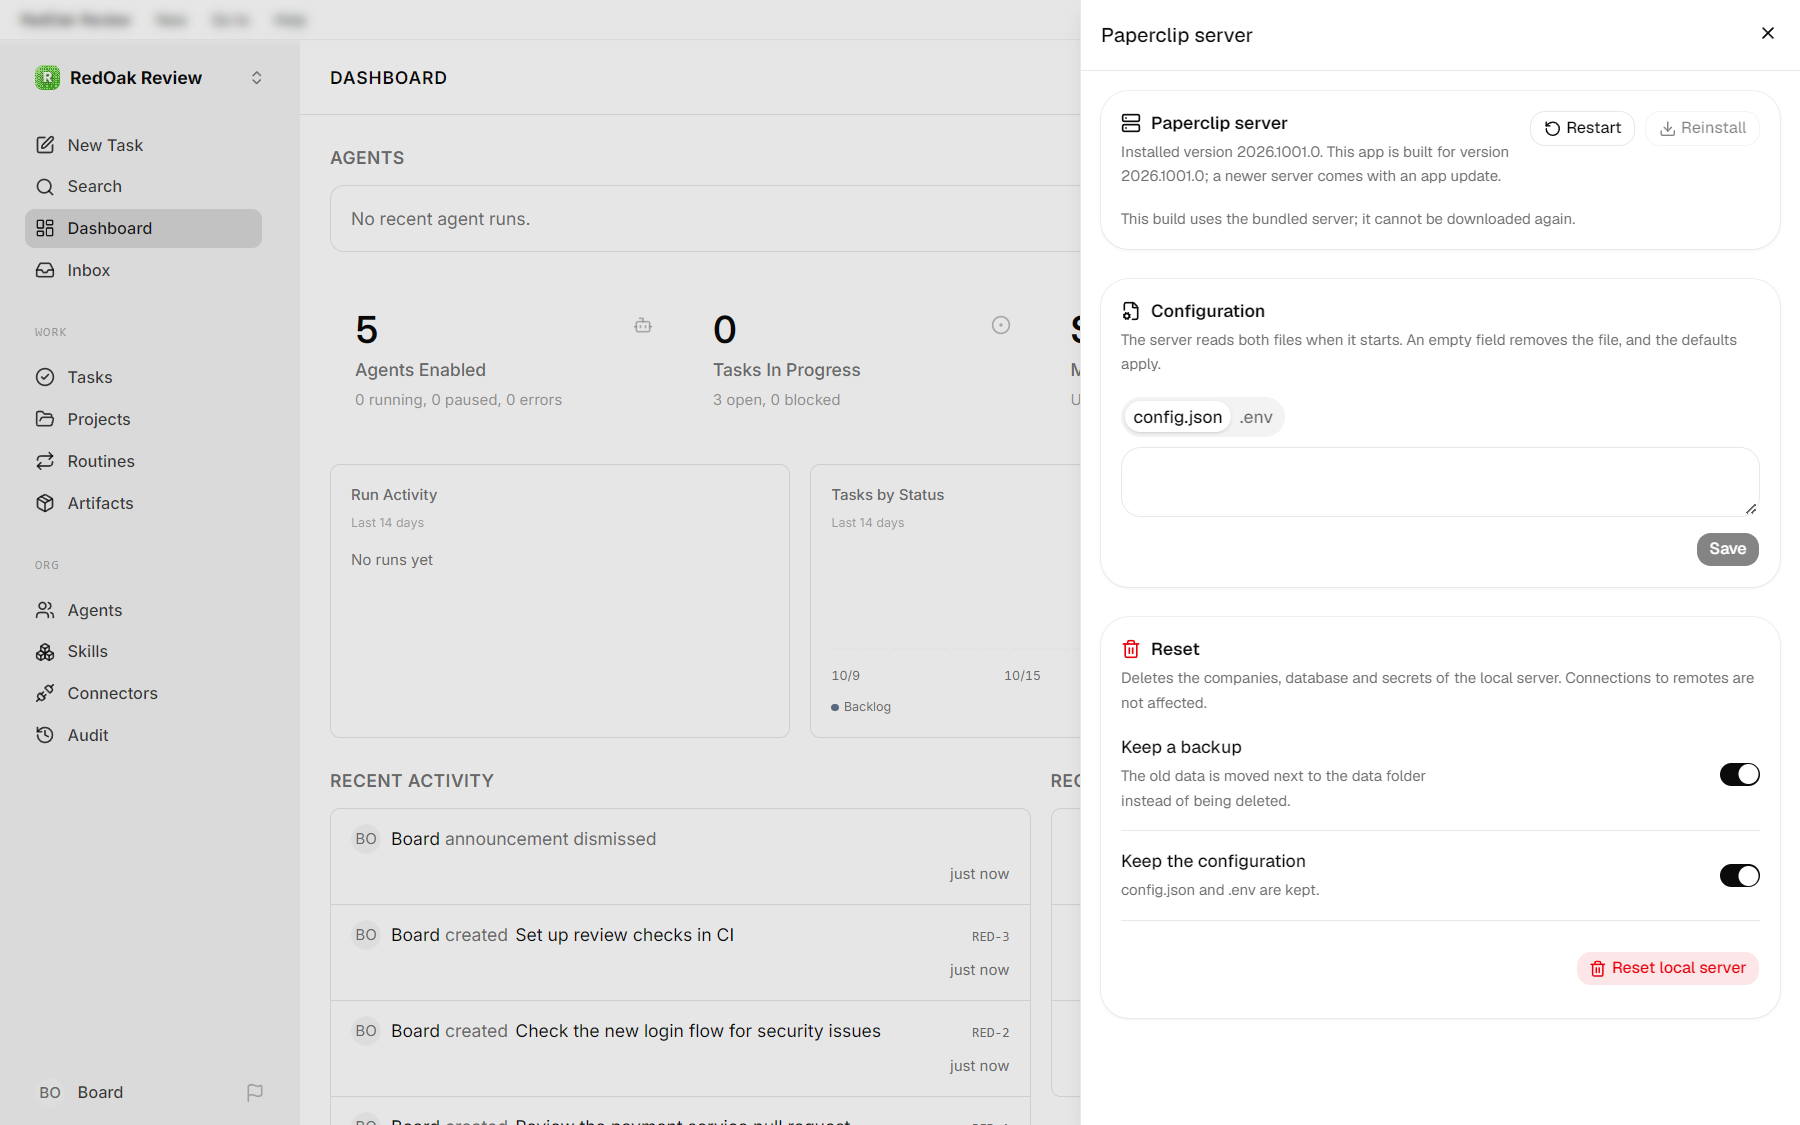
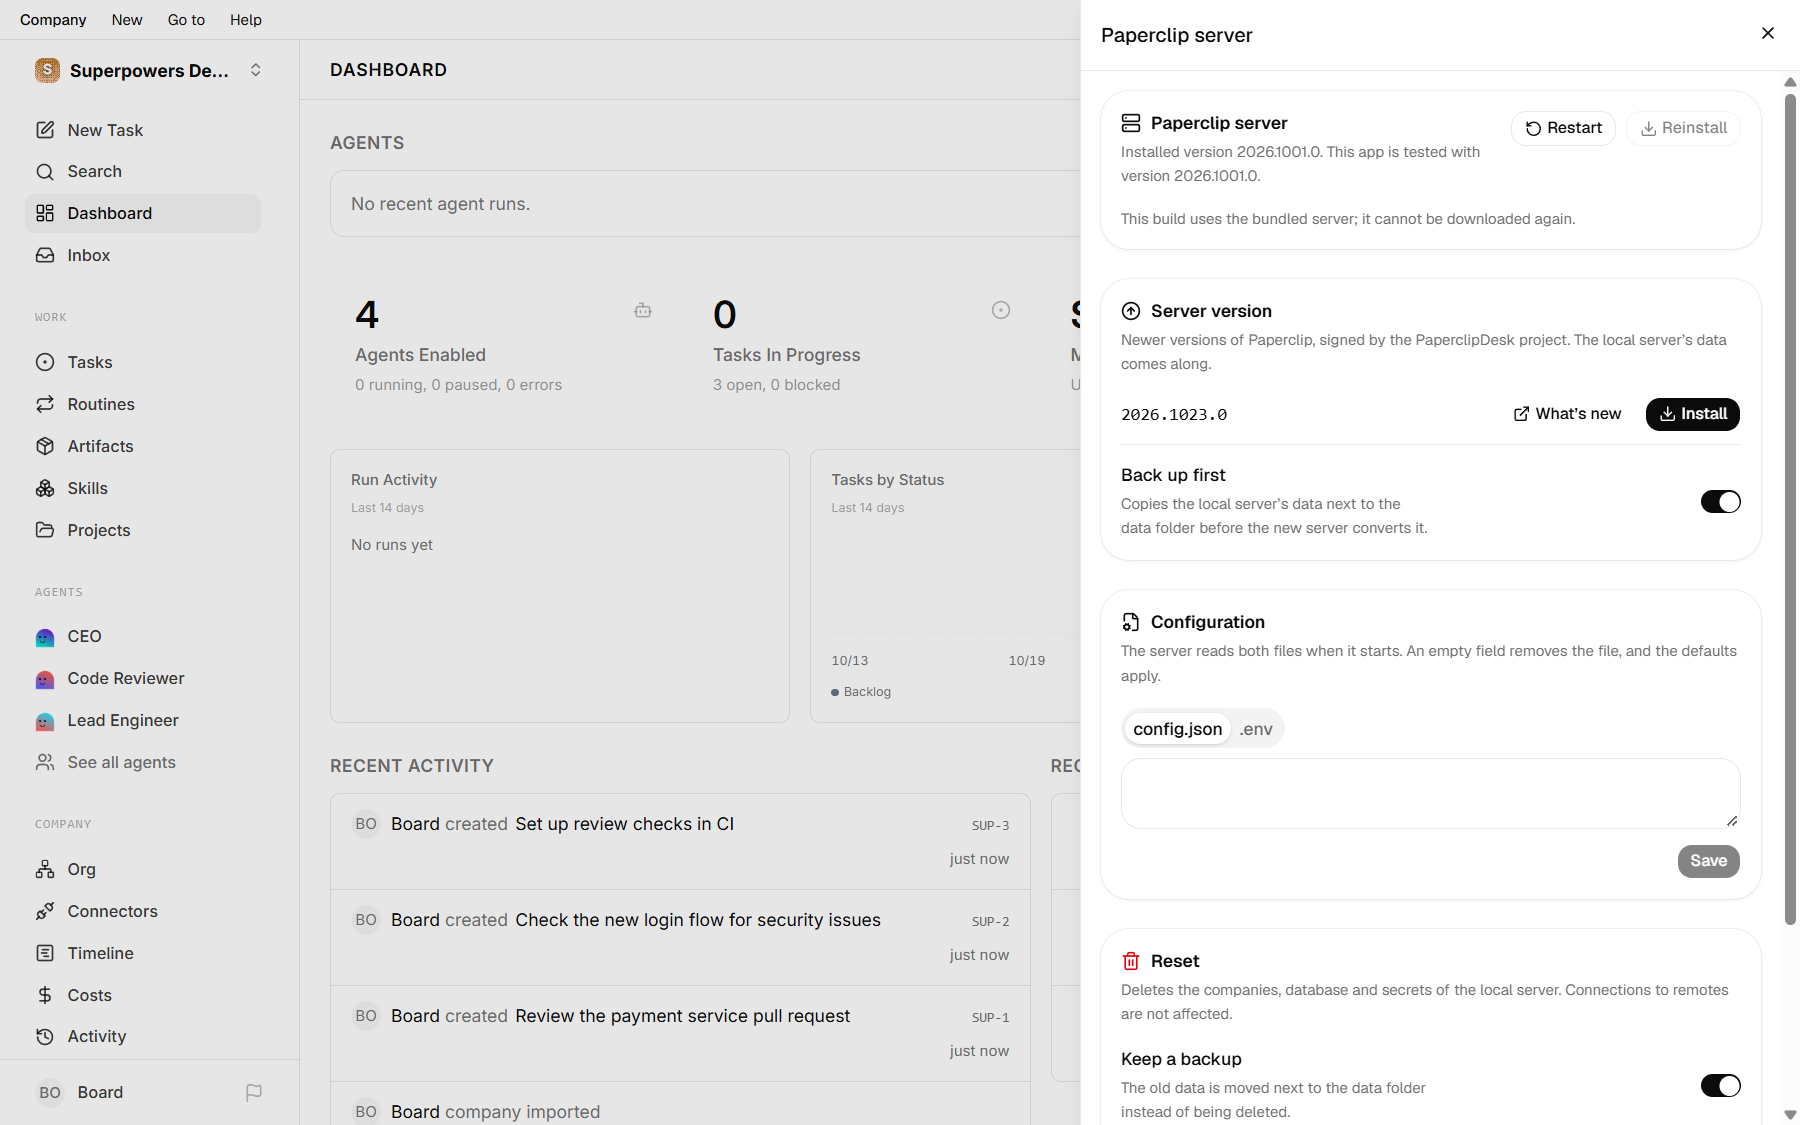
Show the template page in the README and renew its screenshots

diff --git a/README.md b/README.md
@@ -125,9 +125,9 @@ The gear opens the settings as a menu, with a search field on top.
 
 <p align="center"><img src="assets/settings.png" alt="The gear menu open over Paperclip, with zoom, colour scheme, accent colour, design, language and the entry for the local server" width="100%"></p>
 
-**Local server …** opens the **Paperclip server** panel over Paperclip. It shows the version of the local server, restarts or reinstalls it, has an editor for its `config.json` and `.env`, and resets it. The first time the app starts a local server, it turns Paperclip's experimental **Streamlined UI** off; you can turn it on again in Paperclip's instance settings, and the app leaves it so.
+**Local server …** opens the **Paperclip server** panel over Paperclip. It shows the version of the local server, offers newer versions of Paperclip from a list the project signs and copies the data first if you keep the backup on, restarts or reinstalls the server, has an editor for its `config.json` and `.env`, and resets it. The first time the app starts a local server, it turns Paperclip's experimental **Streamlined UI** off; you can turn it on again in Paperclip's instance settings, and the app leaves it so.
 
-<p align="center"><img src="assets/server-panel.png" alt="The Paperclip server panel with the server version, the configuration editor and the reset" width="100%"></p>
+<p align="center"><img src="assets/server-panel.png" alt="The Paperclip server panel with the installed version, a newer version to install, the configuration editor and the reset" width="100%"></p>
 
 ### The menu bar and keyboard shortcuts
 
